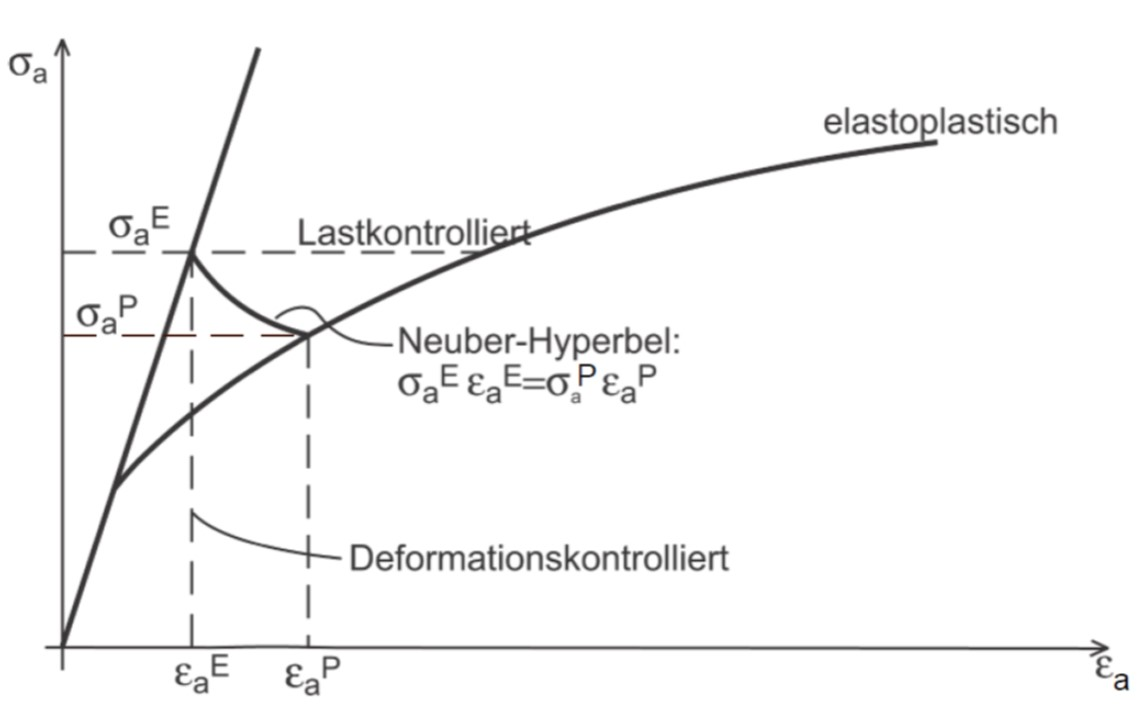
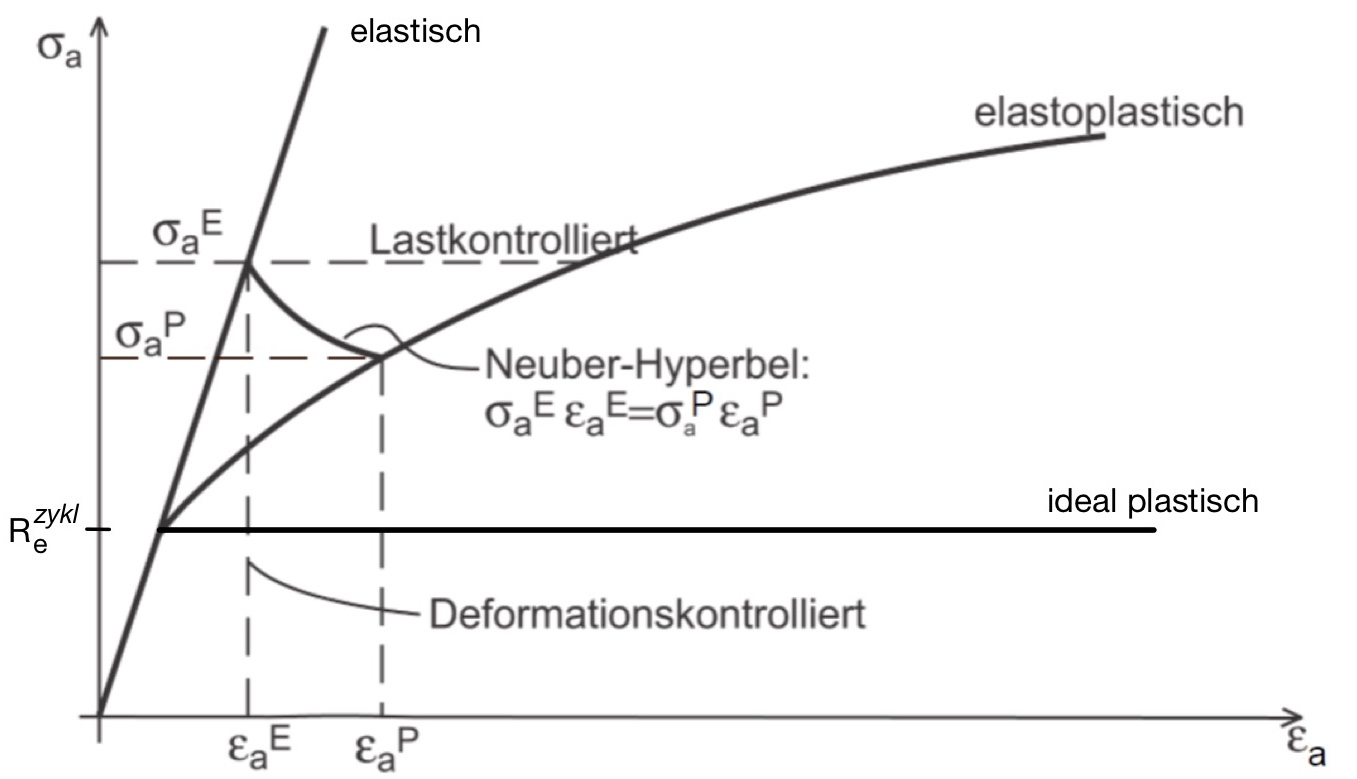
Updates from Overleaf

diff --git a/06_zyklische_Belastung/zykl_belastung.tex b/06_zyklische_Belastung/zykl_belastung.tex
@@ -24,28 +24,31 @@
     \subsection{Kumulative Ermüdung (Miner-Regel)}
         Belastung oft komplexer als 'einstufig' $\rightarrow$ Mehrstufenkollektiv. Belastungsfunktion wird in Abschnitte aufgeteilt.
         \[D_{\textrm{BK}}= \sum_{i}\frac{n_{i}}{N_{\textrm{Zul}}(\Delta\sigma_{i},\sigma_{m,i})} \quad D_{\textrm{BK}}: \frac{\textrm{Schädigung}}{\textrm{Belastungskollektive}} \]
-        \[T_{L}=\frac{1}{D_{\textrm{BK}}}\cdot T_{\textrm{BK}} \quad\quad\quad T_{\textrm{BK}}:\frac{\textrm{Belastungszeit}}{\textrm{Belastungskollektive}}\]
+        \[T_{L}=\frac{1}{D_{\textrm{BK}}}\cdot T_{\textrm{BK}} \qquad\quad T_{\textrm{BK}}:\frac{\textrm{Belastungszeit}}{\textrm{Belastungskollektive}}\]
     \subsection{Kerben}
         \subsubsection{Lokal Elastisch}
-            Anriss erfolgt oft an Kerben. An der kritischen Stelle oft \textbf{Ebener Spannungszustand} (Spannungsfreie Oberfläche).\\ $K_F$: Abminderung der Zeitfestigkeit; $K_T$: Abminderung der Wechselfestigkeit. Da $K_F < K_T$ wäre eine Beurteilung basierend auf der lokalen Spannungsamplitude mit der Wöhlerkurve aus ungekerbten Proben zu konservativ. $\sigma_{\textrm{max}}=K_F \cdot \sigma_{\textrm{nom}}$ statt $K_T$.
+            Anriss erfolgt oft an Kerben. An den kritischen Stellen herrscht oft \textbf{Ebener Spannungszustand} (Spannungsfreie Oberfläche).\\ $K_F$: Abminderung der Zeitfestigkeit; $K_T$: Abminderung der Wechselfestigkeit. Da $K_F < K_T$ wäre eine Beurteilung basierend auf der lokalen Spannungsamplitude mit der Wöhlerkurve aus ungekerbten Proben zu konservativ. $\sigma_{\textrm{max}}=K_F \cdot \sigma_{\textrm{nom}}$ statt $K_T$.
             \[K_F = q\cdot(K_T-1)+1\]
         \subsubsection{Lokal inelastisch}
             LCF an Kerbe.
-            \[\Delta\sigma_K = K_{\sigma} \cdot \Delta\textrm{s} \quad\quad \Delta\textrm{s}:\textrm{Fernfeld Schwingbreite}\]
-            \[\Delta\varepsilon_K = K_{\varepsilon} \cdot \Delta\textrm{e} \quad\quad \Delta\sigma_K:\textrm{lok. Schwingbreite}\]
-            \[\Delta\textrm{e}=\frac{\Delta s}{E} \quad\quad\quad \Delta\varepsilon_K:\textrm{lok. Schwingbreite}\]
+            \[\Delta\sigma_K = K_{\sigma} \cdot \Delta\textrm{s} \qquad \Delta\textrm{s}:\textrm{Fernfeld Schwingbreite}\]
+            \[\Delta\varepsilon_K = K_{\varepsilon} \cdot \Delta\textrm{e} \qquad \Delta\sigma_K:\textrm{lok. Schwingbreite}\]
+            \[\Delta\textrm{e}=\frac{\Delta s}{E} \qquad\qquad \Delta\varepsilon_K:\textrm{lok. Schwingbreite}\]
     \subsection{Neuber Hyperbel}
         Möglichkeit zur Abschätzung von Dehnungsamplituden bei lokaler plast. im Kerbgrund.
         \[\sigma_A^E\cdot\varepsilon_A^E = \sigma_A^P \cdot \varepsilon_A^P\]
         Neuber setzt voraus, dass:
         \begin{itemize}
-            \item im Kerbgrund ein einachsiger Spannungszustand besteht.
+            \item Im Kerbgrund ein einachsiger Spannungszustand besteht.
             \item $\sigma_a^E$ bekannt ( aus finiten Elementen, oder Kerbfaktor)
         \end{itemize}
-        \includegraphics[width=\linewidth, height= 45mm]{images/06/Neuber_Hyperbel.jpeg}
+        \begin{center}
+            \includegraphics[width=0.7\linewidth, height=30mm]{images/06/Neuber_Hyperbel.jpeg}
+        \end{center}{}
         \[\sigma_a^E = K_T \cdot s; \quad \sigma_a^E = E \cdot \varepsilon_a^E \quad\Rightarrow\quad \varepsilon_a^E = K_T \cdot \frac{s}{E}\]
-        \[\varepsilon_a^P \cdot R_{p_{0.2}}^{zykl.} = K_T^2 \cdot \frac{s^2}{E}; \quad K_{\sigma}=\frac{R_{p_{0.2}}^{zykl.}}{s_a} \quad\Rightarrow\quad K_{\sigma} \cdot K_{\varepsilon} = K_T^2\]
+        \[\varepsilon_a^P \cdot R_{e}^{zykl.} = K_T^2 \cdot \frac{s^2}{E}; \quad K_{\sigma}=\frac{R_{e}^{zykl.}}{s_a} \quad\Rightarrow\quad K_{\sigma} \cdot K_{\varepsilon} = K_T^2\]
         Falls ideal plastisches Material: (\bm{$\sigma_a^P = \textrm{\textbf{const.}} = R_e^{zykl.}$})
+        \\Nützliche Beziehung: $\Delta\varepsilon = 2\varepsilon_{a}^{p}$
         
         
              

diff --git a/03_Scheibe/Scheibe.tex b/03_Scheibe/Scheibe.tex
@@ -4,38 +4,33 @@
             \vspace{-5mm}
             \includegraphics[width=\linewidth]{03/Scheibe}
         \end{wrapfigure}
-        Scheibenelement: Dünnwandige Struktur mit Belastung in der Ebene. Äussere Kräfte dargestellt durch $N_x,N_y,N_{xy},N_{yx}$: Kräfte pro Längeneinheit ($\rightarrow$ Spannungen $\sigma_{xx},\sigma_{yy},\tau_{xy}$ über Dicke t integriert).\\
-        
+        Scheibenelement: Dünnwandige Struktur mit Belastung in der Ebene. Äussere Kräfte dargestellt durch $N_x,N_y,N_{xy},N_{yx}$: Kräfte pro Längeneinheit ($\rightarrow$ Spannungen $\sigma_{xx},\sigma_{yy},\tau_{xy}$ über Dicke t integriert).
+    
     \subsection{Annahmen}
         \begin{enumerate}[noitemsep]
             \item Ebener Spannungszustand ($\sigma_{zz},\tau_{xz},\tau_{yz}=0$)
             \item Übrige Spannungskomponenten sind konstant verteilt in z-Richtung (homogene Spannungsverteilung)
             \item Keine Volumenkräfte
         \end{enumerate}
-        1.,2.: Vernünftig, weil planare Dimensionen $\gg$ t \& keine Biegung. GGB reduziert sich zu:
-        \[\sigma_{xx,x} + \tau_{xy,y}=0\quad\quad\sigma_{yy,y} + \tau_{xy,x}=0\]
-        Definiere $F(x,y)$ (ayrische Spannungsfkt) mit $\sigma_{xx}=F_{,yy}$; $\sigma_{yy}=F_{,xx}$; $\tau_{xy}=-F_{,xy}$. Aus Kompatibilitätsbedingung: $\varepsilon_{xx,yy}+\varepsilon_{yy,xx}=2\varepsilon_{xy,xy} \rightarrow \Delta\Delta F=0$ (Bi-potential Gleichung) Funktion F(x,y) so wählen, damit RB erfüllt.
-        
+        %\vspace{-1mm}
+        1, 2: Vernünftig, weil planare Dimensionen $\gg$ t \& keine Biegung. GGB reduziert sich zu: $\displaystyle\sigma_{xx,x} + \tau_{xy,y}=0$; $\sigma_{yy,y} + \tau_{xy,x}=0$
+        $\rightarrow$Definiere $F(x,y)$ (ayrische Spannungsfkt) mit $\sigma_{xx}=F_{,yy}$; $\sigma_{yy}=F_{,xx}$; $\tau_{xy}=-F_{,xy}$. Aus Kompatibilitätsbedingung: $\varepsilon_{xx,yy}+\varepsilon_{yy,xx}=2\varepsilon_{xy,xy} \rightarrow \Delta\Delta F=0$. Funktion F(x,y) so wählen, damit RB erfüllt.
     \subsection{Scheibe mit Loch}
-
+    \vspace{-0.5mm}
+        \begin{center}
+            \includegraphics[width=\linewidth, height=30mm]{images/03/mohr_and_loch.jpeg}
+        \end{center}
+        \vspace{-3mm}
         \begin{itemize}
             \item Lochradius a $\ll$ L
             \item Belastung durch uniforme, einachsige Spannung S in grosser Entfernung vom Loch
-            \item Spannungsfreie Rissflanken ($r = a; \forall\varphi\in\mathbb{R} $):\\ $\sigma_{rr}=0, \tau_{r\varphi}=0$
+            \item Spannungsfreie Rissflanken ($r = a; \forall\varphi\in\mathbb{R} $): $\sigma_{rr}=0, \tau_{r\varphi}=0$
         \end{itemize}
-        
-        \begin{wrapfigure}[0]{r}{\linewidth}
-            \includegraphics[width=\linewidth, height= 35mm]{03/Scheibeloch}
-        \end{wrapfigure}
-        \begin{wrapfigure}[6]{r}{0.5\linewidth}
-            \vspace{-10mm}
-            \includegraphics[width=\linewidth]{03/Mohrscher_Kreis.png}
-        \end{wrapfigure}
+        \vspace{-2mm}
         \textbf{Superposition} von mehreren Spannungen \& Spannungsrichtungen möglich. Bei Schubspannungen in Hauptspannungen umwandlen (Mohrscher Kreis).
-        \\
-        
     \subsection{Scheibe mit Riss}
         Spannungsfreie Rissflanken ($\forall r, \varphi=\pm\pi$): $\sigma_{\varphi\varphi}=0, \tau_{r\varphi}=0$
         \begin{center}
-            \includegraphics[width=70mm, height= 30mm]{03/Scheiberiss}
+            \vspace{-2mm}
+            \includegraphics[width=70mm, height= 25mm]{03/Scheiberiss}
         \end{center}

diff --git a/02_Balken/Balken.tex b/02_Balken/Balken.tex
@@ -9,9 +9,9 @@
                 \item Spannungsfeld $\sigma_{ij}(x,y,z)$ zulässig falls: GGB \& \textit{stat} RB erfüllt.
                 \item Verschiebungsfeld $u_i(x,y,z)$ zulässig falls: stetig \& \textit{kin} RB erfüllt (schwächere Bedingung).
                 \item Verschiebungsfeld \& Spannungsfeld verträglich iff SG erfüllt.
-                \item Deformationsenergie: $\displaystyle U=\frac{1}{2}\iiint_V \sigma_{ij}\varepsilon_{ij}dV$
+                \item Deformationsenergie: $U=\frac{1}{2}\iiint_V \sigma_{ij}\cdot\varepsilon_{ij}dV$
                 \item Potential äussere Energie:\\
-                $\displaystyle V=-\iiint_V f_iu_idV-\sum_{a}\underline{F_a}\cdot\underline{u_a}$ 
+                $V=-\iiint_V f_i\cdot u_idV-\sum_{a}\underline{F}_a\cdot\underline{u}_a$
                 \item Potentielle Energie: $E_p=U+V$
                 \item Komplementäre Deformationsenergie:\\ $U_K=\iiint_V(\oint_0^{\sigma_{ij}}\varepsilon_{ij}d\sigma_{ij})dV := U$  (lin. elast.)
             \end{itemize}
@@ -33,23 +33,23 @@
             $U=\frac{1}{2}\int_0^l\int_\frac{-h}{2}^\frac{h}{2}\int_{-\frac{b}{2}}^\frac{b}{2}(\sigma_{xx}\cdot\varepsilon_{xx})dzdydx=6\cdot\alpha\cdot I\cdot l(\alpha^2l^2+\frac{b^2}{3}+abl)$\\
             $V=-P\cdot u_y(x=l)=-P(al^3+bl^2)$\\
             $E_p=6\alpha Il(a^2l2+\frac{b^2}{3}+abl)-P(al^3+bl^2)$
+            \vspace{-3mm}
             \small\[\frac{\partial E_p}{\partial a} = 0 \Rightarrow a=-\frac{P}{6\alpha I};\quad\frac{\partial E_p}{\partial b} = 0 \Rightarrow b=-\frac{P}{2\alpha I}\]\normalsize
-            
+        \vspace{-3mm}    
         \subsubsection{SMPE \& FEM}
+            \begin{wrapfigure}[5]{r}{0.4\linewidth}
+                \vspace{-5mm}
+                \includegraphics[width=\linewidth, height=23mm]{02/Dreieckselement}
+            \end{wrapfigure}
             Relation der Verschiebungsfreiheitsgrade der Knoten ($\{u\}$) und äusseren Kräften an den Knoten ($\{F\}$) über die globale Steifigkeitsmatrix ($\{K\}\in\mathbb{R}^{6\times6}$): $\{F\}=\{K\}\{u\}$
-
+            
         \subsubsection{Bsp}
             $u_1=ax_1+bx_2+c$; $u_2=dx_1+ex_2+f$\\
             $\Rightarrow u_1(x_1=0,x_2=0)=c=u_1^A$; $\quad u_2(x_1=0,x_2=0)=f=u_2^A$;...\\
             $\Rightarrow u_1=(u_1^B-u_1^A)x_1+(u_1^C-u_1^A)x_2+u_1^A$;\\
-            \begin{wrapfigure}[6]{r}{0.4\linewidth}
-                \vspace{-8mm}
-                \includegraphics[width=\linewidth]{02/Dreieckselement}
-            \end{wrapfigure}
-            $u_2=(u_2^B-u_2^A)x_1+(u_2^C-u_2^A)x_2+u_2^A$\\
-            KR:\\
+            \small$u_2=(u_2^B-u_2^A)x_1+(u_2^C-u_2^A)x_2+u_2^A$\normalsize\\
             $\varepsilon_{11}=(u_1^B-u_1^A)$; $\varepsilon_{22}=(u_2^C-u_2^A)$; $\varepsilon_{12}=\frac{1}{2}(u_2^B-u_2^A+u_1^C-u_1^A)$
-            $\Rightarrow\sigma_{ij}(u_1^A,...,u_2^C,E,\nu)$\\
+            $\Rightarrow\sigma_{ij}(u_1^A,...,u_2^C,E,\nu)$ (aus KR)\\
             $U=\frac{1}{2}\cdot\frac{1}{2}(\sigma_{11}\cdot\varepsilon_{11}+\sigma_{22}\cdot\varepsilon_{22}+2\sigma_{12}\cdot\varepsilon_{12})\cdot t$ mit Dicke $t$ und Fläche $\frac{1}{2}$.\\
             $V=-(F_1^A\cdot u_1^A+F_2^A\cdot u_2^A+...+F_2^C\cdot u_2^C)$\\
             $E_p=U+V=E_p(u_1^A,...,u_2^C,E,\nu,t)=\alpha_1(u_1^A)^2+\alpha_2u_1^Au_1^B+ ...-(F_1^Au_1^A+...)$\\

diff --git a/04_Materialverhalten/Materialverhalten.tex b/04_Materialverhalten/Materialverhalten.tex
@@ -1,24 +1,17 @@
 \section{Materialverhalten}{}
     \subsection{Festigkeitshypothesen}
-        \subsubsection{Fliessbedingung}
-            Fliessfunktion: $\Phi(\sigma)$\\
+        \subsubsection{Fliessbedingung/Fliessfunktion $\Phi(\sigma)$}
             Fliessbedingung: $\Phi(\sigma)<0$ (elastisch), $\Phi(\sigma)=0$ (plastisch)
             \includegraphics[width=0.45\linewidth]{04/Verf_ideal_elpl}
             \includegraphics[width=0.5\linewidth]{04/Verf_lin_isotr}
             \includegraphics[width=0.5\linewidth]{04/Verf_lin_kin}
-            
         \subsubsection{von Mieses'sche Vergleichsspannung}
+            \vspace{-3mm}
             \[\Phi_{\textrm{v.Mises}}= \sigma_1^2+\sigma_2^2+\sigma_3^2-\sigma_1\sigma_2-\sigma_1\sigma_3-\sigma_2\sigma_3 -\sigma_0^2\quad(=0)\]
             \[\Leftrightarrow \sigma_{\textrm{v. Mises}}^{vgl}= \sqrt{\sigma_1^2+\sigma_2^2+\sigma_3^2-\sigma_1\sigma_2-\sigma_1\sigma_3-\sigma_2\sigma_3} \quad\textrm(HS)\]
-            
         \subsubsection{Tresca'sche Vergleichsspannung}
             Konservativer als von Mises'sche Vergleichsspannung (Grenzfläche von Sechseck schneller erreicht als von Ellipse).
             \[\sigma_{\textrm{Tresca}}^{vgl}=\frac{1}{2}\textrm{max} \left(|\sigma_1-\sigma_2|,|\sigma_2-\sigma_3|,|\sigma_3-\sigma_1| \right) =\tau_0=\frac{\sigma_0}{2}\]
-        
-        \subsection{Kesselgleichungen}
-            Für dünnwandige Behälter ($\frac{d}{R} \ll 1$)
-            \[\sigma_{\varphi\varphi} = \frac{R}{d}P = 2\sigma_{zz}; \quad \sigma_{zz} = \frac{R}{2d}P; \quad \sigma_{rr}=0\]
-            
     \subsection{Statische Belastung}
         \begin{comment}
             \subsubsection{Kraft- \& Deformationsgesteurete Belastung:}
@@ -32,7 +25,9 @@
             \begin{itemize}
                 \item Erste plastifizierung = vollständige Plastifizierung:
             \end{itemize}
-                    \[F_{plast} = \sigma_0\ \cdot A\]
+            \[F_{plast} = \sigma_0\ \cdot A\]
+            
+            \columnbreak
             \textbf{Biegung:}
             \begin{itemize}
                 \item Erste Plastifizierung:
@@ -45,3 +40,7 @@
         \subsubsection{Formfaktoren}
             Zug(homogen): $\frac{F_{versagen}}{F_{plast}}$\\
             Biegung(linear): $\frac{P_{versagen}}{P_{plast}}$ (Reserve, da Plastifizierung linear)
+    \section{Kesselgleichungen}
+        Für dünnwandige Behälter ($\frac{d}{R} \ll 1$)
+        \[\sigma_{\varphi\varphi} = \frac{R}{d}P = 2\sigma_{zz}; \quad \sigma_{zz} = \frac{R}{2d}P; \quad \sigma_{rr}=0\]
+            

diff --git a/01_MdSA/MdSA.tex b/01_MdSA/MdSA.tex
@@ -7,15 +7,22 @@
             \[\sigma_{31,1} + \sigma_{32,2} + \sigma_{33,3} + f_3 = 0\]
             
         \subsubsection{Stoffgleichungen (SG)}
+            \vspace{-3mm}
             \[\varepsilon_{11} = \frac{1}{E}\lbrack\sigma_{11} - \nu(\sigma_{22} + \sigma_{33})\rbrack \quad \sigma_{11}=\frac{E}{1+\nu}\lbrack\varepsilon_{11}+\frac{\nu}{1-2\nu}(\varepsilon_{11}+\varepsilon_{22}+\varepsilon_{33})\rbrack\]
+            \vspace{-3mm}
             \[\varepsilon_{22} = \frac{1}{E}\lbrack\sigma_{22} - \nu(\sigma_{11} + \sigma_{33})\rbrack \quad \sigma_{22}=\frac{E}{1+\nu}\lbrack\varepsilon_{22}+\frac{\nu}{1-2\nu}(\varepsilon_{11}+\varepsilon_{22}+\varepsilon_{33})\rbrack\]
+            \vspace{-1mm}
             \[\varepsilon_{33} = \frac{1}{E}\lbrack\sigma_{33} - \nu(\sigma_{22} + \sigma_{11})\rbrack \quad \sigma_{33}=\frac{E}{1+\nu}\lbrack\varepsilon_{33}+\frac{\nu}{1-2\nu}(\varepsilon_{11}+\varepsilon_{22}+\varepsilon_{33})\rbrack\]
-            \[\varepsilon_{12}=\frac{\tau_{12}}{2G}; \quad 2G=\frac{E}{1+\nu}\]
+            \[\varepsilon_{12}=\frac{\tau_{12}}{2G}; \qquad 2G=\frac{E}{1+\nu}\]
             
         \subsubsection{Kinematische Randbedingungen (KR)}
-            \[\varepsilon_{11} = u_{1,1}\quad\quad\quad\quad\varepsilon_{12} = \frac{1}{2}(u_{1,2} + u_{2,1})\]
-            \[\varepsilon_{22} = u_{2,2}\quad\quad\quad\quad\varepsilon_{13} = \frac{1}{2}(u_{1,3} + u_{3,1})\]
-            \[\varepsilon_{33} = u_{3,3}\quad\quad\quad\quad\varepsilon_{23} = \frac{1}{2}(u_{2,3} + u_{3,2})\]
+            \[\varepsilon_{11} = u_{1,1}\qquad\qquad\varepsilon_{22} = u_{2,2}\qquad\qquad\varepsilon_{33} = u_{3,3}\]
+            \[\varepsilon_{12} = \frac{1}{2}(u_{1,2} + u_{2,1});\quad\varepsilon_{13} = \frac{1}{2}(u_{1,3} + u_{3,1});\quad\varepsilon_{23} = \frac{1}{2}(u_{2,3} + u_{3,2})\]
             \normalsize
+            \begin{comment}
+                \[\varepsilon_{11} = u_{1,1}\quad\quad\quad\quad\varepsilon_{12} = \frac{1}{2}(u_{1,2} + u_{2,1})\]
+                \[\varepsilon_{22} = u_{2,2}\quad\quad\quad\quad\varepsilon_{13} = \frac{1}{2}(u_{1,3} + u_{3,1})\]
+                \[\varepsilon_{33} = u_{3,3}\quad\quad\quad\quad\varepsilon_{23} = \frac{1}{2}(u_{2,3} + u_{3,2})\]
+            \end{comment}
         
     

diff --git a/07_oertl_spannungen/07_oertl_spannungen.tex b/07_oertl_spannungen/07_oertl_spannungen.tex
@@ -14,9 +14,11 @@
             \[K_{\textrm{WK}}=\left(\left[1+\frac{1}{\widetilde{K}_F}\left(\frac{1}{K_R}-1\right)\right]\frac{1}{K_v}\right)\frac{1}{\eta_{\sigma}}\]
             $\widetilde{K}_F$: Rauheitsfaktor;   $K_R$: Sensitivität auf Rauheit bei Kerben;     $K_v$: Randschichtfaktor;   $\eta_{\sigma}$: Stützzahl aus Kerbwirkung
         \subsubsection{Einfluss der Mittelspannung $\sigma_m$}
-            \[K_{\textrm{AK},i}=\frac{1}{1+M\frac{\sigma_{m,i}}{\sigma_{a,i}}} \quad\quad\textrm{(aus Haigh-Diagramm)}\]
-        \subsection{Beschränkte Schwingungszahl}
-            Einstufenkollektiv: \[K_{\textrm{BK}}= \frac{\sigma_{a}(N=N_L)}{\sigma_w}\]
-            Allgemein: \[\quad K_{\textrm{BK}}=\left(\frac{A\cdot D_{\textrm{m}}\cdot N_{\textrm{D}}}{\bar{N}}\right)^{1/K}\]
-            \[A = \frac{1}{\frac{n_1}{\bar{N}}\cdot\left(\frac{\sigma_{a,R,1}}{\sigma_{a,1}}\right)^{K}+\frac{n_2}{\bar{N}}\cdot\left(\frac{\sigma_{a,R,2}}{\sigma_{a,1}}\right)^{K}}\quad \sigma_{a,R,i}=\sigma_{a,i}\cdot\frac{K_{\textrm{AK},1}}{K_{\textrm{AK},i}}\]
-            $\bar{N}$: $\Sigma$ Zyklen;  $D_{\textrm{m}}$: Schadensgrenze 
+            \[K_{\textrm{AK},i}=\frac{1}{1+M\frac{\sigma_{m,i}}{\sigma_{a,i}}} \qquad\textrm{(aus Haigh-Diagramm)}\]
+        \subsubsection{Beschränkte Schwingungszahl}
+            Einstufenkollektiv: $\displaystyle K_{\textrm{BK}}= \frac{\sigma_{a}(N=N_L)}{\sigma_w}$\\
+            Allgemein:\qquad\qquad $\displaystyle K_{\textrm{BK}}=\left(\frac{A\cdot D_{\textrm{m}}\cdot N_{\textrm{D}}}{\bar{N}}\right)^{1/K}$
+            \[A = \frac{1}{\frac{n_1}{\bar{N}}\cdot\left(\frac{\sigma_{a,R,1}}{\sigma_{a,1}}\right)^{K}+\frac{n_2}{\bar{N}}\cdot\left(\frac{\sigma_{a,R,2}}{\sigma_{a,1}}\right)^{K}};\quad \sigma_{a,R,i}=\sigma_{a,i}\cdot\frac{K_{\textrm{AK},1}}{K_{\textrm{AK},i}}\]
+            $\bar{N}$: $\Sigma$ Zyklen; \qquad $D_{\textrm{m}}$: Schadensgrenze
+    \subsection{BSP}
+        \TODO{}
